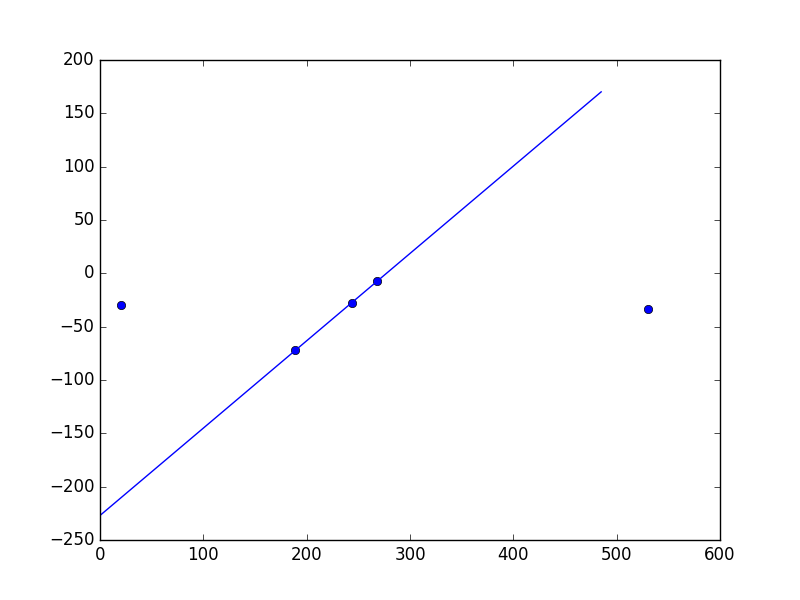
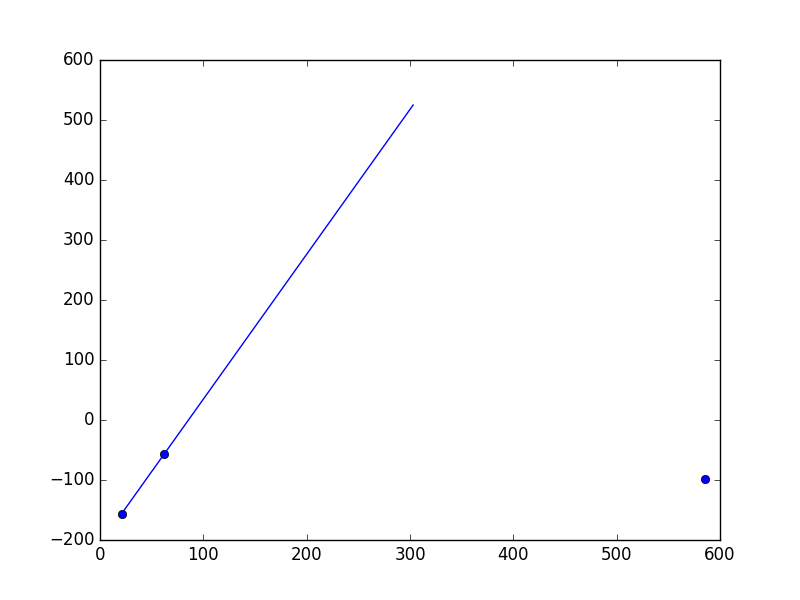
center car

diff --git a/car_main.py b/car_main.py
@@ -9,8 +9,10 @@ im_in = cv2.cvtColor(image, cv2.COLOR_RGB2GRAY)
 # cropping image
 #third_x = int(im_in)
 third_y = int(im_in.shape[0]/2)
+print(third_y)
 width = int(im_in.shape[1])
-print "width/2 = ", width/2 , "width = ",  width
+print(width)
+#print "width/2 = ", width/2 , "width = ",  width
 height = int(im_in.shape[0])
 
 cropped_image = im_in[third_y:height,0:width]
@@ -22,11 +24,6 @@ cropped_image_2 = image[third_y:height,0:width]
 # Gaussian Blur
 blurred_image_1 = cv2.GaussianBlur(cropped_image,(15,15),0)
 #cv2.imshow("GaussianBlur",blurred_image_1)
-#cv2.waitKey(0)
-
-# bilateral Filter
-blurred_image_2 = cv2.bilateralFilter(cropped_image,15,55,55)
-#cv2.imshow("bilateralFilter",blurred_image_2)
 #cv2.waitKey(0)
 
 #threshold
@@ -58,7 +55,7 @@ cx_array = []
 cy_array = []
 for x in ordered_contours:
     #print(cv2.contourArea(x))
-    if cv2.contourArea(x) > 0:
+    if cv2.contourArea(x) > 110:
         # print area
         #print(cv2.contourArea(x))
         M = cv2.moments(x)
@@ -69,51 +66,25 @@ for x in ordered_contours:
         cx_array.append(cx)
         cy = int(M['m01']/M['m00'])
         cy_array.append(cy)
-        #cv2.circle(cropped_image_2,(cx,cy),10,(0,255,0),3)
-        cv2.imshow("contours",cropped_image_2)
-        cv2.waitKey(0)
+        cv2.circle(cropped_image_2,(cx,cy),10,(0,255,0),3)
+        #cv2.imshow("contours",cropped_image_2)
+        #cv2.waitKey(0)
 
 # arrays of centroids xs and ys values
-#print(cx_array)
 cx_array_sorted = sorted(cx_array,reverse=True)
-#print(cx_array_sorted)
-#print(cy_array)
+print "cx_sorted = ", cx_array_sorted
+print "cx = ", cx_array
+print "cy = ", cy_array
 
 #ploting centroids of the blobs
 cy_array_invert = [-x for x in cy_array]
 plt.plot(cx_array,cy_array_invert,"bo")
+#plt.show()
 
-# parameter to exclude some blobs
-center_of_way = cx_array_sorted[0]-int(width/2)
-#center_of_way = cx_array_sorted[1]-int(width/2)
-half_center_of_way = int(center_of_way/2)
-range_excluding = int(width/2)-half_center_of_way
-print(range_excluding)
-# excluding blobs
-cx_include = []
-cy_include = []
-for x in ordered_contours:
-    #print(cv2.contourArea(x))
-    if cv2.contourArea(x) > 50:
-        M = cv2.moments(x)
-        cx = int(M['m10']/M['m00'])
-        cy = int(M['m01']/M['m00'])
-        if cx >= range_excluding:
-            cx_include.append(int(cx))
-            cy_include.append(int(cy))
-            cv2.drawContours(cropped_image_2, x, -1, (0,0,255), 3)
-            cv2.circle(cropped_image_2,(cx,cy),10,(0,255,0),3)
-            #cv2.imshow("contours",cropped_image_2)
-            #cv2.waitKey(0)
-
-# centroids included
-print(cx_include)
-print(cy_include)
-print "\n"
 
 list_centroids = {}
-for x in range(len(cx_include)):
-    list_centroids[cx_include[x]] = cy_include[x]
+for x in range(len(cx_array)):
+    list_centroids[cx_array[x]] = cy_array[x]
 print(list_centroids)
 list_centroids_sorted = sorted(list_centroids.items(), key=operator.itemgetter(0),reverse=True)
 #sorting centroids
@@ -132,14 +103,14 @@ print "\n"
 # exclude most right centroid
 x = x[1:]
 y = y[1:]
-print(x)
-print(y)
+print x , "\n"
+print y , "\n"
 
 # linear regresion procedure
 x = np.array(x, dtype=np.float64)
 y = np.array(y, dtype=np.float64)
+
 n_elements = len(x)
-print(n_elements)
 x_sum = sum(x)
 x2_sum = sum(x**2)
 y_sum = sum(y)
@@ -148,38 +119,44 @@ xy_sum = sum(x*y)
 slope = ((n_elements*xy_sum)-(x_sum*y_sum))/((n_elements*x2_sum)-(x_sum**2))
 b = (y_sum/n_elements)-slope*(x_sum/n_elements)
 print "y = %s*x + %s" %(slope,b)
-#x_test = list(range(range_excluding,(int(width/2)+range_excluding),10))
-x_test = [0,int(width/2)+range_excluding]
+
+x_test = [cx_array_sorted[-1],cx_array_sorted[-1]+((cx_array_sorted[0]-cx_array_sorted[-1])/2)]
 x_test = np.array(x_test, dtype=np.float64)
 
 y_calculated = slope*x_test + b
 plt.plot(x_test,-1*y_calculated)
 plt.savefig("grafica.png")
 
+
+#line form linear regresion
 cv2.line(cropped_image_2,
 (int(x_test[0]),int(y_calculated[0])),
 (int(x_test[1]),int(y_calculated[1])),
 (255,0,0),
 thickness=4)
-
-y_calculated_mean = int(sum(y_calculated)/len(y_calculated))
-x_calculate = (y_calculated_mean-b)/slope
-x_calculate = int(x_calculate)
+#cv2.imshow("lines",cropped_image_2)
+#cv2.waitKey(0)
 
 cv2.line(cropped_image_2,
-((x_calculate),int(y_calculated_mean)),
-list_centroids_sorted[0],
+(0,list_centroids_sorted[0][1]),
+(width,list_centroids_sorted[0][1]),
 (255,120,0),
 thickness=4)
+#cv2.imshow("lines",cropped_image_2)
+#cv2.waitKey(0)
 
+#y_calculated_mean = third_y/2
+y_calculated_mean = list_centroids_sorted[0][1]
+x_calculate = (y_calculated_mean-b)/slope
+x_calculate = int(x_calculate)
+print(x_calculate)
 x_center_car = int(list_centroids_sorted[0][0])+x_calculate
 x_center_car = int(x_center_car/2)
 y_center_car = int(list_centroids_sorted[0][1]+y_calculated_mean)
 y_center_car = int(y_center_car/2)
 
-cv2.circle(cropped_image_2,(x_center_car,y_center_car),8,(0,255,189),3)
+cv2.circle(cropped_image_2,(x_center_car,y_center_car),12,(0,255,189),3)
 
 # final image with blobs and centroids
 cv2.imshow("lines",cropped_image_2)
 cv2.waitKey(0)
-'''
